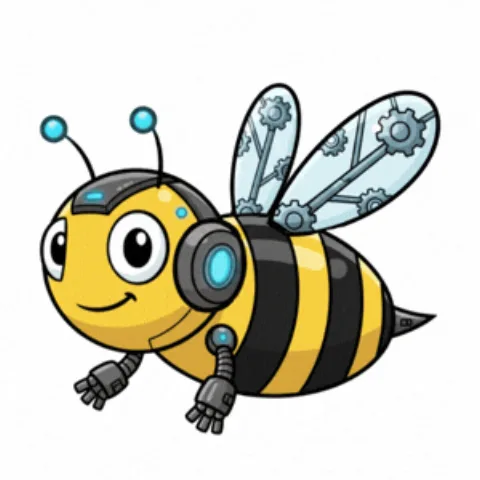
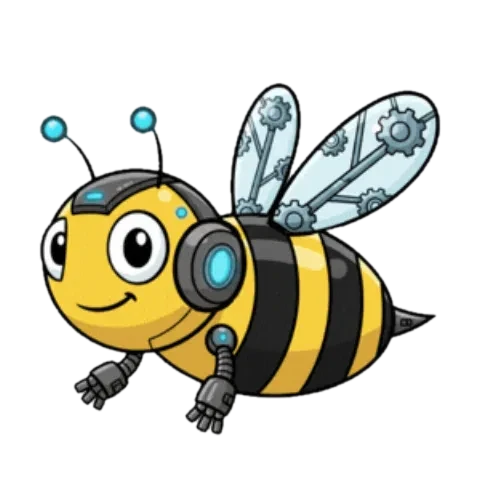
Refactor CU Chat stories for improved accessibility and organization

diff --git a/lib/pages/cu_chat/stories.dart b/lib/pages/cu_chat/stories.dart
@@ -227,9 +227,15 @@ const _roll = <_Story>[
   ),
 ];
 
+/// Every story, in alphabetical order by chatbot so no client is ranked
+/// above another.
+final _stories = [..._features, ..._roll]
+  ..sort((x, y) => x.label.toLowerCase().compareTo(y.label.toLowerCase()));
+
 /// CU Chat client stories at `/cu-chat/stories`: every chatbot introduced
-/// by name, three in depth with their case studies, then the rest of the
-/// roll in the clients' own words.
+/// by name, then a grid of equal cards. Picking one (from the grid or the
+/// hero roster) opens that story in the panel below via `:target`, so it
+/// works without JavaScript and each story keeps a shareable link.
 class CuChatStoriesPage extends StatelessComponent {
   const CuChatStoriesPage({super.key});
 
@@ -237,8 +243,7 @@ class CuChatStoriesPage extends StatelessComponent {
   Component build(BuildContext context) {
     return main_(classes: 'cu-chat-page chat-stories-page', [
       _hero(),
-      for (final (index, story) in _features.indexed) _feature(story, index),
-      _rollSection(),
+      _storiesSection(),
       section(classes: 'chat-stories-close', [
         div(classes: 'site-container chat-stories-close-inner', [
           div([
@@ -260,8 +265,8 @@ class CuChatStoriesPage extends StatelessComponent {
       div(classes: 'site-container chat-stories-hero-grid', [
         div(classes: 'chat-stories-hero-copy', [
           h1(classes: 'page-title', [
-            Component.text('Meet Harry, Penny, Honey'),
-            em([Component.text(' and the rest of the team.')]),
+            Component.text('Meet the chatbots'),
+            em([Component.text(' and the teams behind them.')]),
           ]),
           p(classes: 'hero-lede', [
             Component.text(
@@ -270,7 +275,7 @@ class CuChatStoriesPage extends StatelessComponent {
           ]),
           div(classes: 'hero-actions', [
             primaryLink(bookingLabel, chat: true),
-            quietLink('Read the three case studies', '/cu-chat/stories#heritage'),
+            quietLink('Browse the stories', '/cu-chat/stories#stories'),
           ]),
         ]),
         nav(
@@ -281,7 +286,7 @@ class CuChatStoriesPage extends StatelessComponent {
               Component.text('On the team'),
             ]),
             ol([
-              for (final story in [..._features, ..._roll])
+              for (final story in _stories)
                 li([
                   a(href: '/cu-chat/stories#${story.id}', [
                     span(classes: 'roster-bot', [Component.text(story.label)]),
@@ -311,46 +316,89 @@ class CuChatStoriesPage extends StatelessComponent {
     );
   }
 
-  Component _quote(_Story story, {bool lead = false}) {
-    // The opening sentence carries the lead; the rest of that paragraph
-    // continues at body size, so the words stay verbatim.
-    final paragraphs = [...story.quote];
-    String? opening;
-    if (lead) {
-      final first = paragraphs.first;
-      final stop = first.indexOf('. ');
-      if (stop == -1) {
-        opening = paragraphs.removeAt(0);
-      } else {
-        opening = first.substring(0, stop + 1);
-        paragraphs[0] = first.substring(stop + 2);
-      }
-    }
-    final last = paragraphs.isEmpty ? -1 : paragraphs.length - 1;
+  Component _quote(_Story story) {
+    final last = story.quote.length - 1;
     return blockquote(classes: 'story-quote', [
-      if (opening != null)
-        p(classes: 'story-quote-lead', [
-          Component.text('“$opening${last == -1 ? '”' : ''}'),
-        ]),
-      for (final (index, paragraph) in paragraphs.indexed)
+      for (final (index, paragraph) in story.quote.indexed)
         p([
           Component.text(
-            '${opening == null && index == 0 ? '“' : ''}$paragraph${index == last ? '”' : ''}',
+            '${index == 0 ? '“' : ''}$paragraph${index == last ? '”' : ''}',
           ),
         ]),
       footer([Component.text(story.person)]),
     ]);
   }
 
-  Component _feature(_Story story, int index) {
-    final tone = ['light', 'dark', 'lilac'][index];
-    return article(id: story.id, classes: 'story-feature story-feature-$tone', [
-      div(classes: 'site-container story-feature-grid', [
-        header(classes: 'story-feature-id', [
-          _logo(story.logo, story.client, height: 48),
-          h2(classes: 'story-bot-name', [Component.text(story.bot!)]),
+  /// The opening sentence of a story, for its card.
+  String _excerpt(_Story story) {
+    final first = story.quote.first;
+    final stop = first.indexOf('. ');
+    return stop == -1 ? first : first.substring(0, stop + 1);
+  }
+
+  Component _storiesSection() {
+    return section(id: 'stories', classes: 'chat-stories-index', [
+      div(classes: 'site-container', [
+        div(classes: 'chat-stories-roll-intro', [
+          h2(classes: 'section-title', [Component.text('In their own words.')]),
+          p(classes: 'section-copy', [
+            Component.text(
+              'Different credit unions, the same pattern: the chatbot takes the routine questions, and the team learns from what members ask. Pick a chatbot to read its story.',
+            ),
+          ]),
+        ]),
+        ul(classes: 'story-grid', [
+          for (final story in _stories)
+            li([
+              a(
+                href: '/cu-chat/stories#${story.id}',
+                classes: 'story-card',
+                attributes: {'data-story': story.id},
+                [
+                  span(classes: 'story-card-logo', [
+                    _logo(story.logo, story.client, height: 40),
+                  ]),
+                  span(classes: 'story-card-bot', [
+                    Component.text(story.label),
+                  ]),
+                  span(classes: 'story-card-client', [
+                    Component.text(story.client),
+                  ]),
+                  span(classes: 'story-card-excerpt', [
+                    Component.text('“${_excerpt(story)}”'),
+                  ]),
+                  span(classes: 'story-card-more', [
+                    Component.text('Read the story'),
+                    linkArrow(ArrowKind.down),
+                  ]),
+                ],
+              ),
+            ]),
+        ]),
+        div(classes: 'story-panels', [
+          p(classes: 'story-panels-empty', [
+            Component.text('Pick a chatbot above to read its story.'),
+          ]),
+          for (final story in _stories) _panel(story),
+        ]),
+      ]),
+    ]);
+  }
+
+  Component _panel(_Story story) {
+    return article(
+      id: story.id,
+      classes: 'story-panel',
+      attributes: {'tabindex': '-1', 'aria-labelledby': '${story.id}-name'},
+      [
+        header(classes: 'story-panel-id', [
+          _logo(story.logo, story.client, height: 40),
+          h3(id: '${story.id}-name', classes: 'story-panel-bot', [
+            Component.text(story.label),
+          ]),
           p(classes: 'story-client', [
-            Component.text('${story.client} · Chatbot for mobile and desktop'),
+            Component.text(story.client),
+            if (story.note case final note?) ...[br(), Component.text(note)],
           ]),
           if (story.art case final art?)
             img(
@@ -359,7 +407,8 @@ class CuChatStoriesPage extends StatelessComponent {
               width: art.$2,
               height: art.$3,
               loading: MediaLoading.lazy,
-              classes: 'story-feature-art',
+              classes:
+                  'roll-art${art.$5 ? ' roll-art-device' : ''}${art.$2 > art.$3 ? ' roll-art-wide' : ''}',
             ),
           if (story.caseStudy case (final href, final size))
             a(
@@ -376,53 +425,12 @@ class CuChatStoriesPage extends StatelessComponent {
                 ]),
               ],
             ),
-        ]),
-        _quote(story, lead: true),
-      ]),
-    ]);
-  }
-
-  Component _rollSection() {
-    return section(classes: 'chat-stories-roll', [
-      div(classes: 'site-container', [
-        div(classes: 'chat-stories-roll-intro', [
-          h2(classes: 'section-title', [
-            Component.text('Seven more, in their own words.'),
-          ]),
-          p(classes: 'section-copy', [
-            Component.text(
-              'Different credit unions, the same pattern: the chatbot takes the routine questions, and the team learns from what members ask.',
-            ),
+          a(href: '/cu-chat/stories#stories', classes: 'story-panel-back', [
+            Component.text('Back to all chatbots'),
           ]),
         ]),
-        ol(classes: 'roll-list', [
-          for (final story in _roll)
-            li(id: story.id, classes: 'roll-row', [
-              div(classes: 'roll-id', [
-                if (story.art case final art?)
-                  img(
-                    src: art.$1,
-                    alt: art.$4,
-                    width: art.$2,
-                    height: art.$3,
-                    loading: MediaLoading.lazy,
-                    classes:
-                        'roll-art${art.$5 ? ' roll-art-device' : ''}${art.$2 > art.$3 ? ' roll-art-wide' : ''}',
-                  ),
-                h3(classes: 'roll-bot', [Component.text(story.label)]),
-                p(classes: 'story-client', [
-                  Component.text(story.client),
-                  if (story.note case final note?) ...[
-                    br(),
-                    Component.text(note),
-                  ],
-                ]),
-                _logo(story.logo, story.client, height: 34),
-              ]),
-              _quote(story),
-            ]),
-        ]),
-      ]),
-    ]);
+        _quote(story),
+      ],
+    );
   }
 }

diff --git a/web/products.css b/web/products.css
@@ -434,7 +434,6 @@
 /* CU Chat client stories: every chatbot introduced by name */
 .chat-stories-page .page-title, .chat-stories-page .section-title { letter-spacing: -.04em; }
 .chat-stories-hero { padding-block: clamp(48px, 5.5vw, 84px); background: var(--lilac-field); }
-.chat-stories-hero + .story-feature { padding-top: clamp(48px, 5vw, 72px); }
 .chat-stories-hero-grid { display: grid; grid-template-columns: minmax(0, 7fr) minmax(0, 5fr); gap: clamp(40px, 6vw, 96px); align-items: center; }
 /* The header's booking button takes the purple CU Chat colour on chat pages. */
 .site-header:has(~ #content .cu-chat-page) .desktop-action .button { background: var(--purple); }
@@ -452,49 +451,43 @@
 .chat-stories-roster a:hover .roster-bot, .chat-stories-roster a:focus-visible .roster-bot { color: var(--purple); }
 .chat-stories-roster a:hover .roster-client { color: var(--purple); }
 
-.story-feature { scroll-margin-top: 80px; padding-block: clamp(80px, 9vw, 128px); background: white; }
-.story-feature-lilac { background: var(--lilac-field); }
-.story-feature-dark { background: var(--purple-deep); color: white; }
-.story-feature-grid, .roll-row { display: grid; grid-template-columns: minmax(0, .8fr) minmax(0, 1.2fr); gap: clamp(36px, 7vw, 110px); align-items: start; }
-.story-feature-id { position: sticky; top: 112px; display: grid; justify-items: start; gap: 16px; }
-.story-feature-dark .story-logo { box-sizing: content-box; padding: 10px 14px; background: white; border-radius: 8px; }
-.story-bot-name, .roll-bot { width: fit-content; background: linear-gradient(var(--lilac), var(--lilac)) no-repeat 0 94% / 0% .1em; transition: background-size .9s cubic-bezier(.16, 1, .3, 1); }
-.story-bot-name { margin-top: 14px; color: var(--purple); font-size: clamp(4rem, 8vw, 6rem); line-height: .95; letter-spacing: -.04em; }
-.story-feature-dark .story-bot-name { color: var(--lilac-wash); }
-.story-feature:target .story-bot-name, .roll-row:target .roll-bot { background-size: 100% .1em; }
-.story-client { color: var(--ink-muted); font-size: .98rem; line-height: 1.5; }
-.story-feature-dark .story-client { color: #d4c8e9; }
-.story-feature-art { width: min(240px, 70%); margin-top: 6px; border-radius: 16px; }
+.chat-stories-index { scroll-margin-top: 80px; padding-block: clamp(80px, 9vw, 128px); background: white; }
+.story-grid { display: grid; grid-template-columns: repeat(auto-fill, minmax(min(100%, 250px), 1fr)); gap: 16px; margin: 0; padding: 0; list-style: none; }
+.story-grid li { display: flex; }
+.story-card { display: grid; grid-template-rows: 56px auto auto 1fr auto; gap: 6px; width: 100%; padding: 22px; border: 1px solid #e3dcee; border-radius: 14px; background: white; transition: border-color .2s ease, background-color .2s ease, transform .2s ease; }
+.story-card:hover, .story-card:focus-visible { border-color: var(--purple); background: #faf8fd; }
+.story-card:active { transform: scale(.98); }
+.story-card[aria-current="true"] { border-color: var(--purple); background: var(--lilac-field); }
+.story-card-logo { display: flex; align-items: center; }
+.story-card-logo .story-logo { max-width: 150px; height: auto; max-height: 40px; object-fit: contain; }
+.story-card-bot { margin-top: 8px; color: var(--purple); font-size: 1.6rem; font-weight: 600; line-height: 1.1; letter-spacing: -.03em; }
+.story-card-client { color: var(--ink-muted); font-size: .9rem; }
+.story-card-excerpt { margin-top: 10px; color: var(--ink-body); font-size: .95rem; line-height: 1.55; display: -webkit-box; -webkit-line-clamp: 3; -webkit-box-orient: vertical; overflow: hidden; }
+.story-card-more { display: inline-flex; align-items: center; gap: 8px; margin-top: 14px; color: var(--purple-deep); font-size: .92rem; font-weight: 600; }
+.story-panels { margin-top: 48px; }
+.story-panels-empty { padding: 28px; border: 1px dashed #cfc3e2; border-radius: 14px; color: var(--ink-muted); text-align: center; }
+.story-panels:has(.story-panel:target) .story-panels-empty { display: none; }
+.story-panel { display: none; scroll-margin-top: 90px; grid-template-columns: minmax(0, .8fr) minmax(0, 1.2fr); gap: clamp(36px, 7vw, 110px); align-items: start; padding: clamp(28px, 4vw, 56px); border-radius: 18px; background: var(--lilac-field); outline: none; }
+.story-panel:target { display: grid; animation: story-panel-in .35s cubic-bezier(.16, 1, .3, 1); }
+@keyframes story-panel-in { from { opacity: 0; transform: translateY(8px); } }
+.story-panel-id { display: grid; justify-items: start; align-content: start; gap: 10px; }
+.story-panel-bot { color: var(--purple); font-size: clamp(2.4rem, 4vw, 3.6rem); line-height: 1; letter-spacing: -.04em; }
+.story-panel-back { margin-top: 8px; color: var(--purple-deep); font-size: .92rem; font-weight: 600; text-decoration: underline; text-underline-offset: 3px; }
 .story-pdf { display: grid; gap: 3px; margin-top: 10px; padding: 15px 20px; border: 1px solid #cfc3e2; border-radius: 10px; transition: background-color .2s ease, border-color .2s ease; }
 .story-pdf:hover { background: #f1ecf8; border-color: var(--purple); }
 .story-pdf-label { color: var(--purple-deep); font-weight: 600; }
 .story-pdf-label { display: inline-flex; align-items: center; gap: 8px; }
 .story-pdf-meta { color: var(--ink-muted); font-size: .86rem; }
-.story-feature-dark .story-pdf { border-color: rgba(255, 255, 255, .35); }
-.story-feature-dark .story-pdf:hover { background: rgba(255, 255, 255, .08); border-color: white; }
-.story-feature-dark .story-pdf-label { color: white; }
-.story-feature-dark .story-pdf-meta { color: #d4c8e9; }
 
 .story-quote { max-width: 64ch; margin: 0; }
 .story-quote p { color: var(--ink-body); font-size: 1.1rem; line-height: 1.75; }
 .story-quote p + p { margin-top: 1.1em; }
-.story-quote .story-quote-lead { margin-bottom: 1.1em; color: var(--purple-deep); font-size: clamp(1.45rem, 2.2vw, 2rem); font-weight: 500; line-height: 1.38; letter-spacing: -.02em; text-indent: -.42em; }
 .story-quote footer { margin-top: 30px; padding-top: 18px; border-top: 1px solid #e3dcee; color: var(--navy); font-size: .98rem; font-weight: 600; }
-.story-feature-dark .story-quote p { color: #e3d8f2; }
-.story-feature-dark .story-quote .story-quote-lead { color: white; }
-.story-feature-dark .story-quote footer { border-top-color: rgba(255, 255, 255, .2); color: white; }
 
-.chat-stories-roll { padding-block: clamp(80px, 9vw, 128px); background: white; }
 .chat-stories-roll-intro { display: grid; gap: 20px; max-width: 780px; margin-bottom: 52px; }
-.roll-list { margin: 0; padding: 0; list-style: none; border-top: 1px solid var(--purple-deep); }
-.roll-row { scroll-margin-top: 90px; padding-block: 44px; border-bottom: 1px solid #e3dcee; }
-.roll-id { display: grid; justify-items: start; align-content: start; gap: 8px; }
 .roll-art { width: 200px; height: 200px; margin-bottom: 14px; object-fit: contain; }
 .roll-art-device { width: 120px; height: 240px; }
 .roll-art-wide { width: 280px; height: 176px; }
-.roll-bot { color: var(--purple); font-size: clamp(2rem, 3.4vw, 3rem); line-height: 1.05; letter-spacing: -.035em; }
-.roll-id .story-logo { max-width: 180px; margin-top: 12px; }
-.roll-row .story-quote p:first-child { color: var(--purple-deep); font-size: 1.28rem; line-height: 1.55; }
 
 .chat-stories-close { padding-block: clamp(80px, 9vw, 120px); background: var(--purple-deep); color: white; }
 .chat-stories-close-inner { display: flex; align-items: end; justify-content: space-between; gap: 48px; }
@@ -509,9 +502,7 @@
 }
 
 @media (max-width: 760px) {
-  .story-feature-grid, .roll-row { grid-template-columns: 1fr; gap: 28px; }
-  .story-feature-id { position: static; }
-  .roll-row { padding-block: 36px; }
+  .story-panel:target { grid-template-columns: 1fr; gap: 28px; }
   .chat-stories-close-inner { flex-direction: column; align-items: start; }
 }
 
@@ -520,7 +511,8 @@
 .footer-links .link-arrow, .trust-note .link-arrow, .nav-products-overview .link-arrow, .booking-fallback .link-arrow { width: 1em; height: 1em; }
 
 @media (prefers-reduced-motion: reduce) {
-  .nav-products-panel, .nav-products > button::after, .suite-card, .footer-social a, .story-bot-name, .roll-bot, .story-pdf, .roster-bot { transition: none; }
+  .nav-products-panel, .nav-products > button::after, .suite-card, .footer-social a, .story-card, .story-pdf, .roster-bot { transition: none; }
+  .story-panel:target { animation: none; }
   .suite-card:hover { transform: none; }
 }
 

diff --git a/web/nav.js b/web/nav.js
@@ -78,3 +78,32 @@
   productsEvent('mouseout', false);
   productsEvent('focusout', false);
 })();
+
+// CU Chat stories: the open story is chosen by the URL hash (:target).
+// Mark its card as current and move focus into the panel so keyboard and
+// screen-reader users land on the story they picked.
+(() => {
+  const sync = (focus) => {
+    const id = decodeURIComponent(location.hash.slice(1));
+    document.querySelectorAll('.story-card').forEach((card) => {
+      card.setAttribute('aria-current', String(card.dataset.story === id));
+    });
+    const panel = id && document.getElementById(id);
+    if (focus && panel?.classList.contains('story-panel')) {
+      panel.focus({ preventScroll: true });
+    }
+  };
+  window.addEventListener('hashchange', () => sync(true));
+  document.addEventListener('DOMContentLoaded', () => sync(false));
+  // On a direct link, the browser's own jump to the hash happens before
+  // the page has finished laying out, so repeat it once everything has loaded.
+  window.addEventListener('load', () => {
+    const id = decodeURIComponent(location.hash.slice(1));
+    const panel = id && document.getElementById(id);
+    if (!panel?.classList.contains('story-panel')) return;
+    requestAnimationFrame(() => {
+      panel.scrollIntoView({ block: 'start' });
+      panel.focus({ preventScroll: true });
+    });
+  });
+})();

diff --git a/lib/pages/cu_chat/voice.dart b/lib/pages/cu_chat/voice.dart
@@ -5,11 +5,9 @@ import 'package:jaspr/jaspr.dart';
 /// A demo line: accent, display number and the dialable `tel:` value.
 typedef VoiceLine = (String accent, String agent, String display, String tel);
 
-// TODO: replace with the live demo numbers. These are placeholders: the UK
-// one is from Ofcom's range reserved for drama, so it never reaches anyone.
 const _voiceLines = <VoiceLine>[
-  ('UK English', 'Our UK agent', '0808 157 0192', '+448081570192'),
-  ('Irish English', 'Our Irish agent', '+353 1 555 0147', '+35315550147'),
+  ('UK English', 'Our UK agent', 'ABC 1234 EFG', ''),
+  ('Irish English', 'Our Irish agent', 'EFG 5678 HIJ', ''),
 ];
 
 /// CU Voice landing page at `/cu-chat/voice`: the CU Chat assistant, answering
